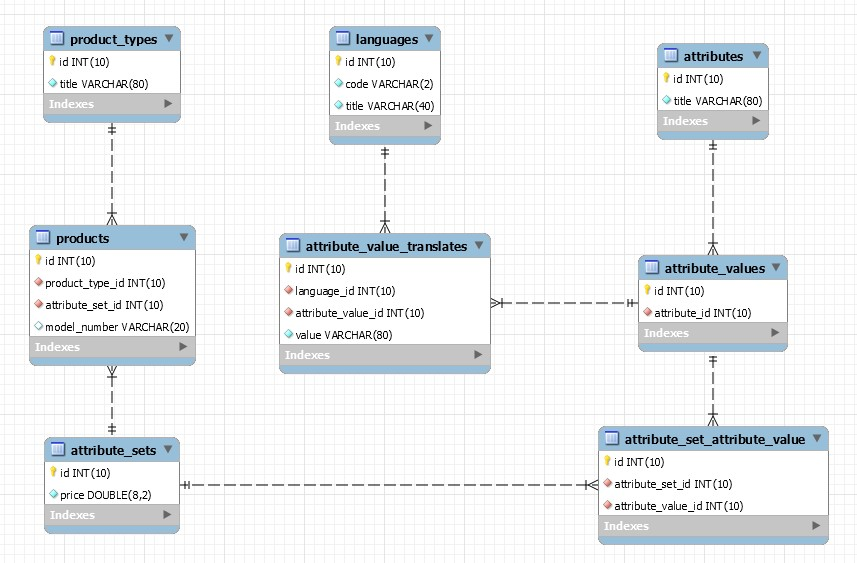
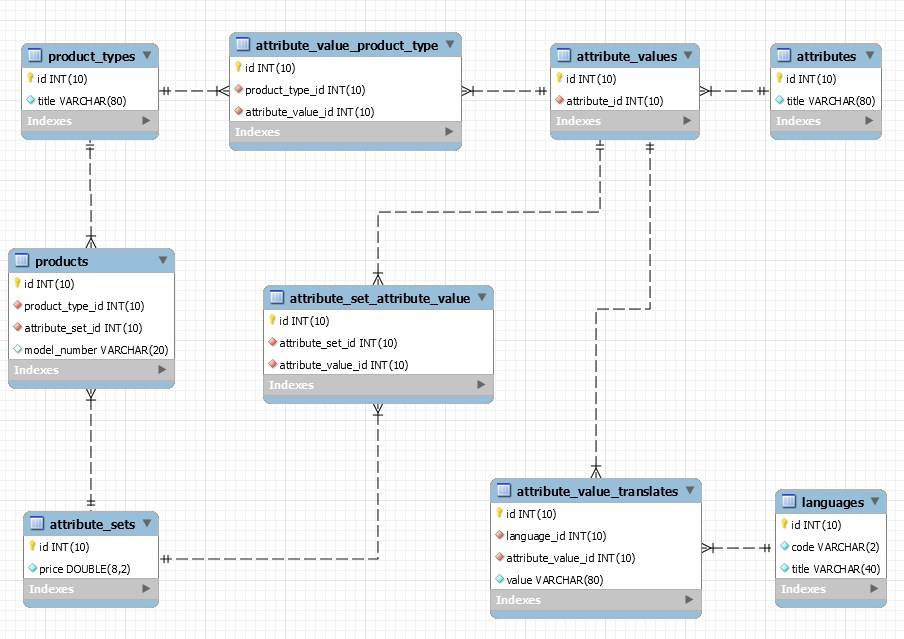
Added common attributtes relation to ProductType

diff --git a/database/seeds/ProductSeeder.php b/database/seeds/ProductSeeder.php
@@ -3,6 +3,9 @@
 use Illuminate\Database\Seeder;
 use App\Models\ProductType;
 use App\Models\Product;
+use App\Models\Attribute;
+use App\Models\AttributeValue;
+use App\Models\AttributeValueTranslate;
 
 class ProductSeeder extends Seeder
 {
@@ -13,9 +16,55 @@ class ProductSeeder extends Seeder
      */
     public function run()
     {
+        // Common Attributes
+        $attr_proc = Attribute::create([
+            'title' => 'Processor'
+        ]);
+
+        $intel = AttributeValue::create([
+            'attribute_id' => $attr_proc->id,
+        ]);
+
+        AttributeValueTranslate::create([
+            'language_id' => 1,
+            'attribute_value_id' => $intel->id,
+            'value' => 'Intel Atom'
+        ]);
+
+        AttributeValueTranslate::create([
+            'language_id' => 2,
+            'attribute_value_id' => $intel->id,
+            'value' => 'Интел Atom'
+        ]);
+
+        $attr_camera = Attribute::create([
+            'title' => 'Camera'
+        ]);
+
+        $camera8 = AttributeValue::create([
+            'attribute_id' => $attr_camera->id,
+        ]);
+
+        AttributeValueTranslate::create([
+            'language_id' => 1,
+            'attribute_value_id' => $camera8->id,
+            'value' => '8Mpx'
+        ]);
+
+        AttributeValueTranslate::create([
+            'language_id' => 2,
+            'attribute_value_id' => $camera8->id,
+            'value' => '8Мп'
+        ]);
+
         // Product 'Google Tablet'
         $product_google = ProductType::create([
             'title' => 'Google tablet'
+        ]);
+
+        $product_google->attributeValues()->attach([
+            $intel->id,
+            $camera8->id,
         ]);
 
         $product = Product::create([
@@ -41,6 +90,12 @@ class ProductSeeder extends Seeder
         $product_microsoft = ProductType::create([
             'title' => 'Microsoft tablet'
         ]);
+
+        $product_microsoft->attributeValues()->attach([
+            $intel->id,
+            $camera8->id,
+        ]);
+
 
         $product = Product::create([
             'product_type_id' => $product_microsoft->id,
@@ -72,6 +127,11 @@ class ProductSeeder extends Seeder
         // Product 'Apple Tablet'
         $product_apple = ProductType::create([
             'title' => 'Apple tablet'
+        ]);
+
+        $product_apple->attributeValues()->attach([
+            $intel->id,
+            $camera8->id,
         ]);
 
         $product = Product::create([

diff --git a/app/Models/ProductType.php b/app/Models/ProductType.php
@@ -19,6 +19,14 @@ class ProductType extends Model
     }
 
     /**
+     * Attribute values that belongs to product type
+     */
+    public function attributeValues()
+    {
+        return $this->belongsToMany('App\Models\AttributeValue');
+    }
+
+    /**
      * Select all related data to the ProductType
      *
      * @return \Illuminate\Database\Eloquent\Builder[]|\Illuminate\Database\Eloquent\Collection
@@ -52,7 +60,42 @@ class ProductType extends Model
             'attribute_values.id as value_id',
             'attributes.title as attribute',
             'attributes.id as attribute_id'
-            )
+        )
+            ->orderBy('value_id');
+
+        return $query->get();
+    }
+
+    /**
+     * Selects common attributes
+     *
+     * @return \Illuminate\Database\Eloquent\Builder[]|\Illuminate\Database\Eloquent\Collection
+     */
+    public function getCommonAttributes()
+    {
+        $lang = config('app.locale');
+
+        $query = ProductType::query()->where('product_types.id', $this->id);
+
+        $query->join(
+            'attribute_value_product_type as pivot_value_type',
+            'pivot_value_type.product_type_id',
+            'product_types.id'
+        )
+            ->join('attribute_values', 'attribute_values.id', 'pivot_value_type.attribute_value_id')
+            ->join('attributes', 'attributes.id', 'attribute_values.attribute_id')
+            ->leftJoin('attribute_value_translates', function ($join) use ($lang) {
+            $join->on('attribute_value_translates.attribute_value_id', '=', 'attribute_values.id')
+                ->join('languages', 'languages.id', 'attribute_value_translates.language_id')
+                ->where('languages.code', $lang);
+        });
+
+        $query->select(
+            'attribute_value_translates.value as attribute_value',
+            'attribute_values.id as value_id',
+            'attributes.title as attribute',
+            'attributes.id as attribute_id'
+        )
             ->orderBy('value_id');
 
         return $query->get();

diff --git a/app/Http/Controllers/ProductsController.php b/app/Http/Controllers/ProductsController.php
@@ -17,14 +17,13 @@ class ProductsController extends Controller
         $init_modification = $productModification->getFirstModification();
 
         $productModification->distributeAttributes();
-        $various_attributes = $productModification->getVariousAttributes();
-        $static_attributes = $productModification->getStaticAttributes();
 
         return view('pages.product', [
             'productType' => $productType,
             'init_modification' => $init_modification,
-            'various_attributes' => $various_attributes,
-            'static_attributes' => $static_attributes,
+            'various_attributes' => $productModification->getVariousAttributes(),
+            'static_attributes' => $productModification->getStaticAttributes(),
+            'type_attributes' => $productType->getCommonAttributes(),
         ]);
     }
 
@@ -52,7 +51,8 @@ class ProductsController extends Controller
             'productType' => $productType,
             'modification' => $modification,
             'various_attributes' => $productModification->getVariousAttributes(),
-            'static_attributes' => $productModification->getStaticAttributes()
+            'static_attributes' => $productModification->getStaticAttributes(),
+            'type_attributes' => $productType->getCommonAttributes(),
         ])->render();
 
         return response()->json(['modification_view' => $modification_view]);

diff --git a/database/migrations/2019_07_26_064827_create_attribute_value_product_type_table.php b/database/migrations/2019_07_26_064827_create_attribute_value_product_type_table.php
@@ -1,0 +1,42 @@
+<?php
+
+use Illuminate\Support\Facades\Schema;
+use Illuminate\Database\Schema\Blueprint;
+use Illuminate\Database\Migrations\Migration;
+
+class CreateAttributeValueProductTypeTable extends Migration
+{
+    /**
+     * Run the migrations.
+     *
+     * @return void
+     */
+    public function up()
+    {
+        Schema::create('attribute_value_product_type', function (Blueprint $table) {
+            $table->increments('id');
+
+            $table->unsignedInteger('product_type_id')->index();
+            $table->foreign('product_type_id')
+                ->references('id')
+                ->on('product_types')
+                ->onDelete('cascade');
+
+            $table->unsignedInteger('attribute_value_id')->index();
+            $table->foreign('attribute_value_id')
+                ->references('id')
+                ->on('attribute_values')
+                ->onDelete('cascade');
+        });
+    }
+
+    /**
+     * Reverse the migrations.
+     *
+     * @return void
+     */
+    public function down()
+    {
+        Schema::dropIfExists('attribute_value_product_type');
+    }
+}

diff --git a/resources/views/pages/_product-modification.blade.php b/resources/views/pages/_product-modification.blade.php
@@ -43,11 +43,19 @@
             </tr>
             </thead>
             <tbody>
+            @php $attr_counter = 0; @endphp
             @foreach($static_attributes as $attribute)
                 <tr>
-                    <td>{{ $loop->iteration }}</td>
+                    <td>{{ ++$attr_counter }}</td>
                     <td class="text-center"><strong>{{ $attribute['attribute'] }}</strong></td>
                     <td class="text-center">{{ $attribute['attribute_value'] }}</td>
+                </tr>
+            @endforeach
+            @foreach($type_attributes as $attribute)
+                <tr>
+                    <td>{{ ++$attr_counter }}</td>
+                    <td class="text-center"><strong>{{ $attribute->attribute }}</strong></td>
+                    <td class="text-center">{{ $attribute->attribute_value }}</td>
                 </tr>
             @endforeach
             </tbody>

diff --git a/app/Models/AttributeValue.php b/app/Models/AttributeValue.php
@@ -8,8 +8,6 @@ class AttributeValue extends Model
 {
     public $timestamps = false;
 
-    //protected $fillable = ['value'];
-
     /**
      * Attribute sets that belongs to attribute value
      */
@@ -24,5 +22,13 @@ class AttributeValue extends Model
     public function attribute()
     {
         return $this->belongsTo('App\Models\Attribute');
+    }
+
+    /**
+     * ProductType that belongs to attribute value
+     */
+    public function productType()
+    {
+        return $this->belongsToMany('App\Models\ProductType');
     }
 }

diff --git a/database/seeds/AttributeSeeder.php b/database/seeds/AttributeSeeder.php
@@ -215,6 +215,8 @@ class AttributeSeeder extends Seeder
         AttributeSet::create([
             'price' => rand(100, 1000),
         ])->attributeValues()->attach([
+            $grey->id,
+            $ram16->id,
             $storage128->id,
         ]);
 
@@ -240,6 +242,7 @@ class AttributeSeeder extends Seeder
         AttributeSet::create([
             'price' => rand(100, 1000),
         ])->attributeValues()->attach([
+            $golden->id,
             $ram8->id,
             $storage128->id,
         ]);
